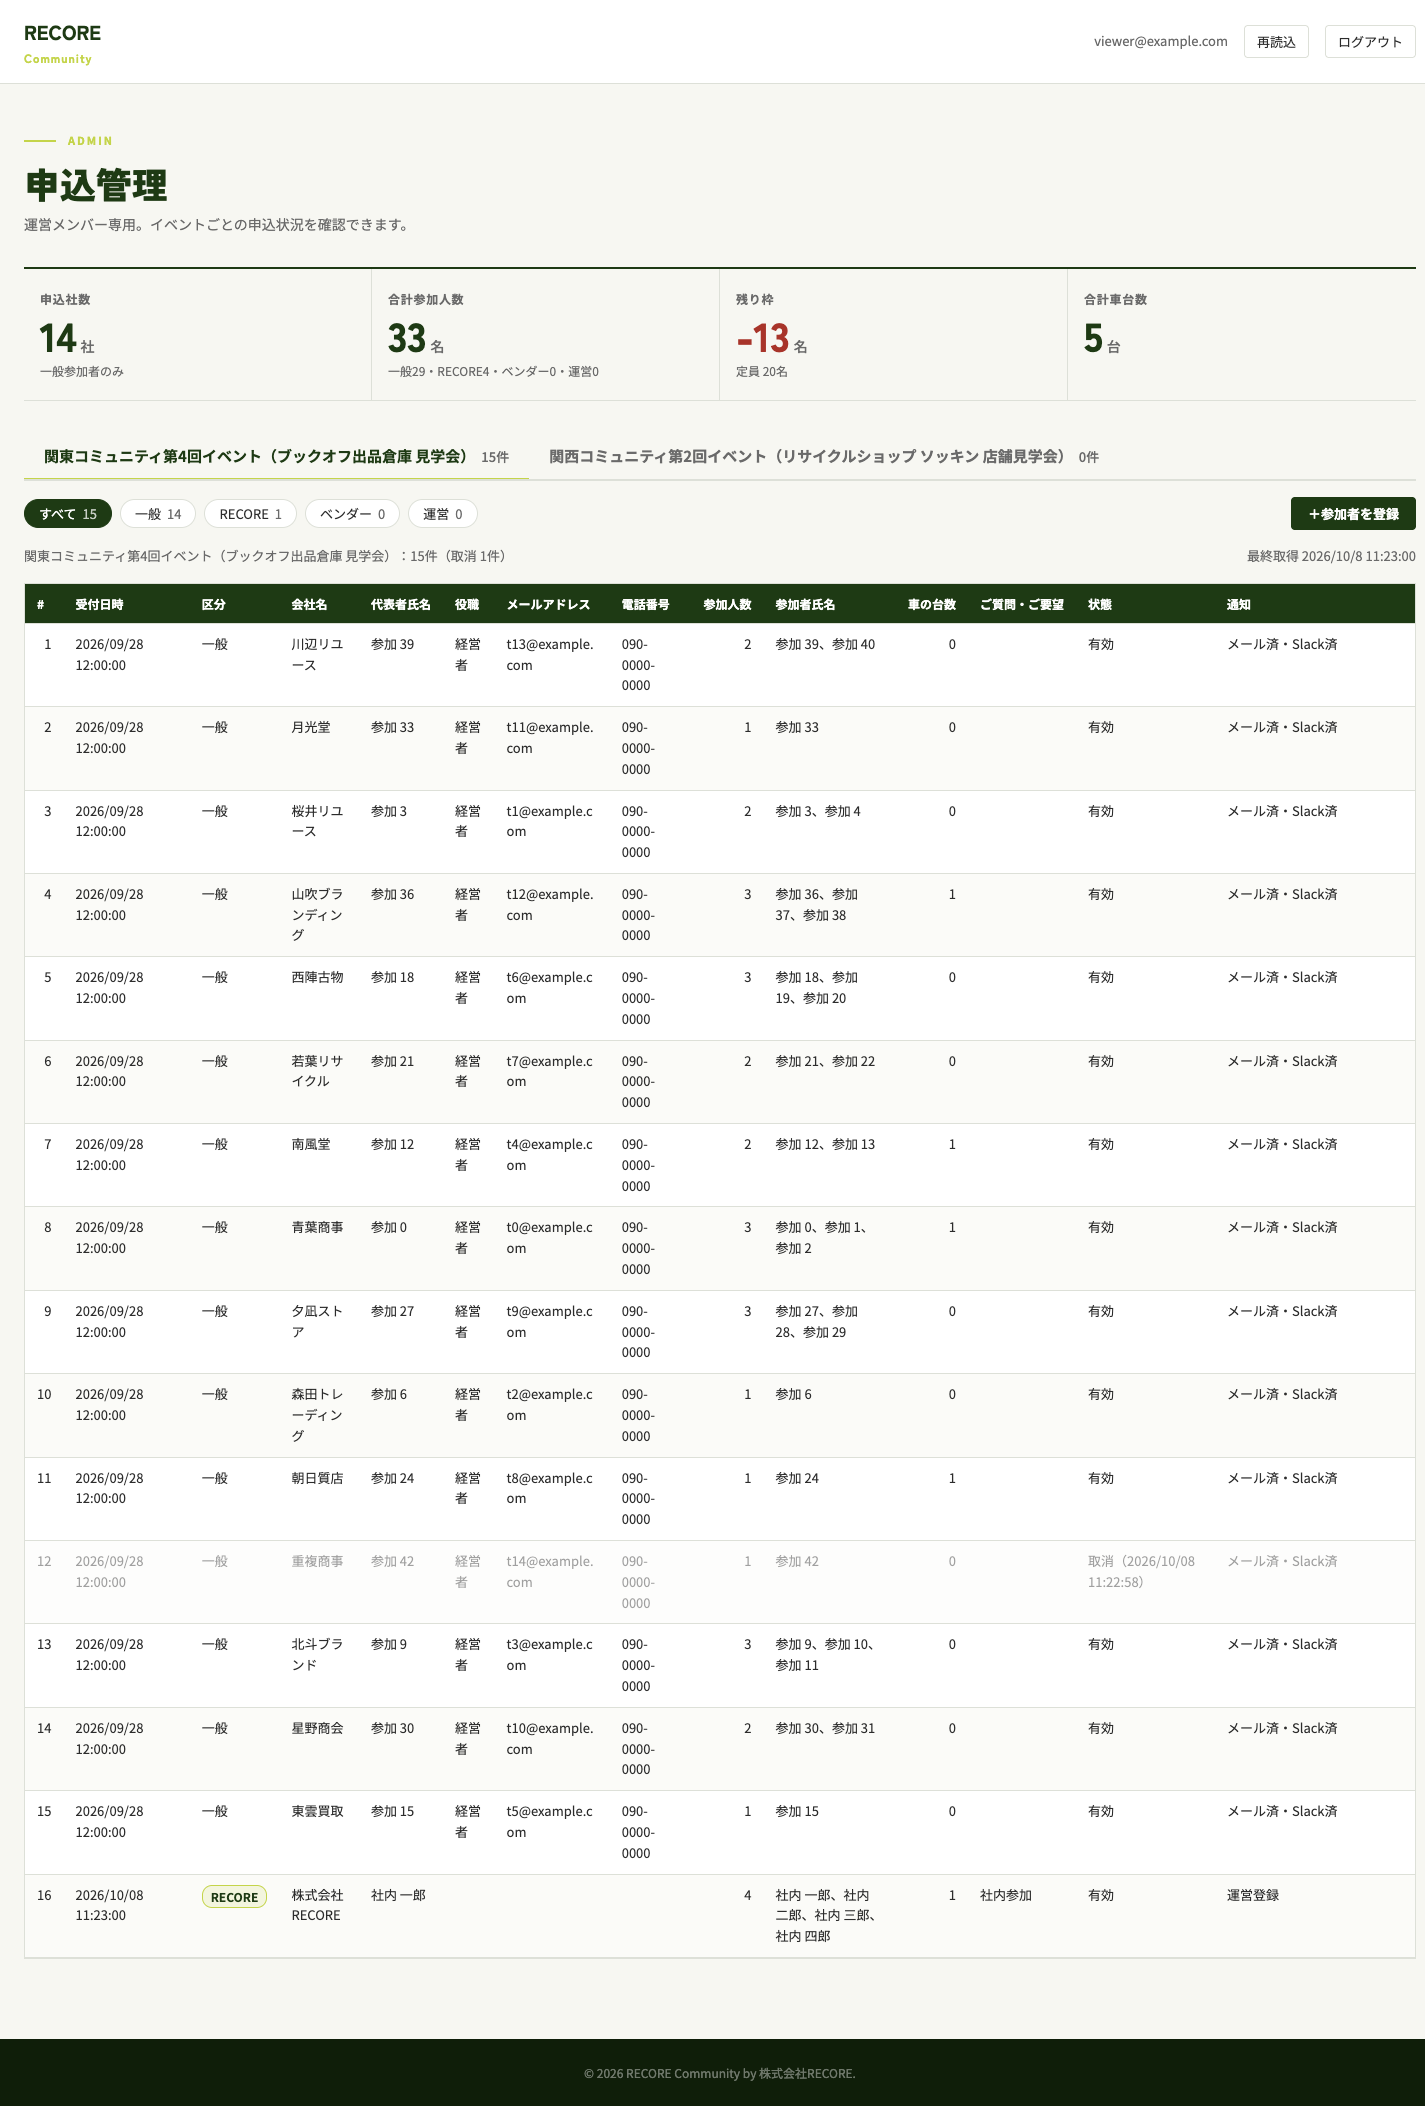
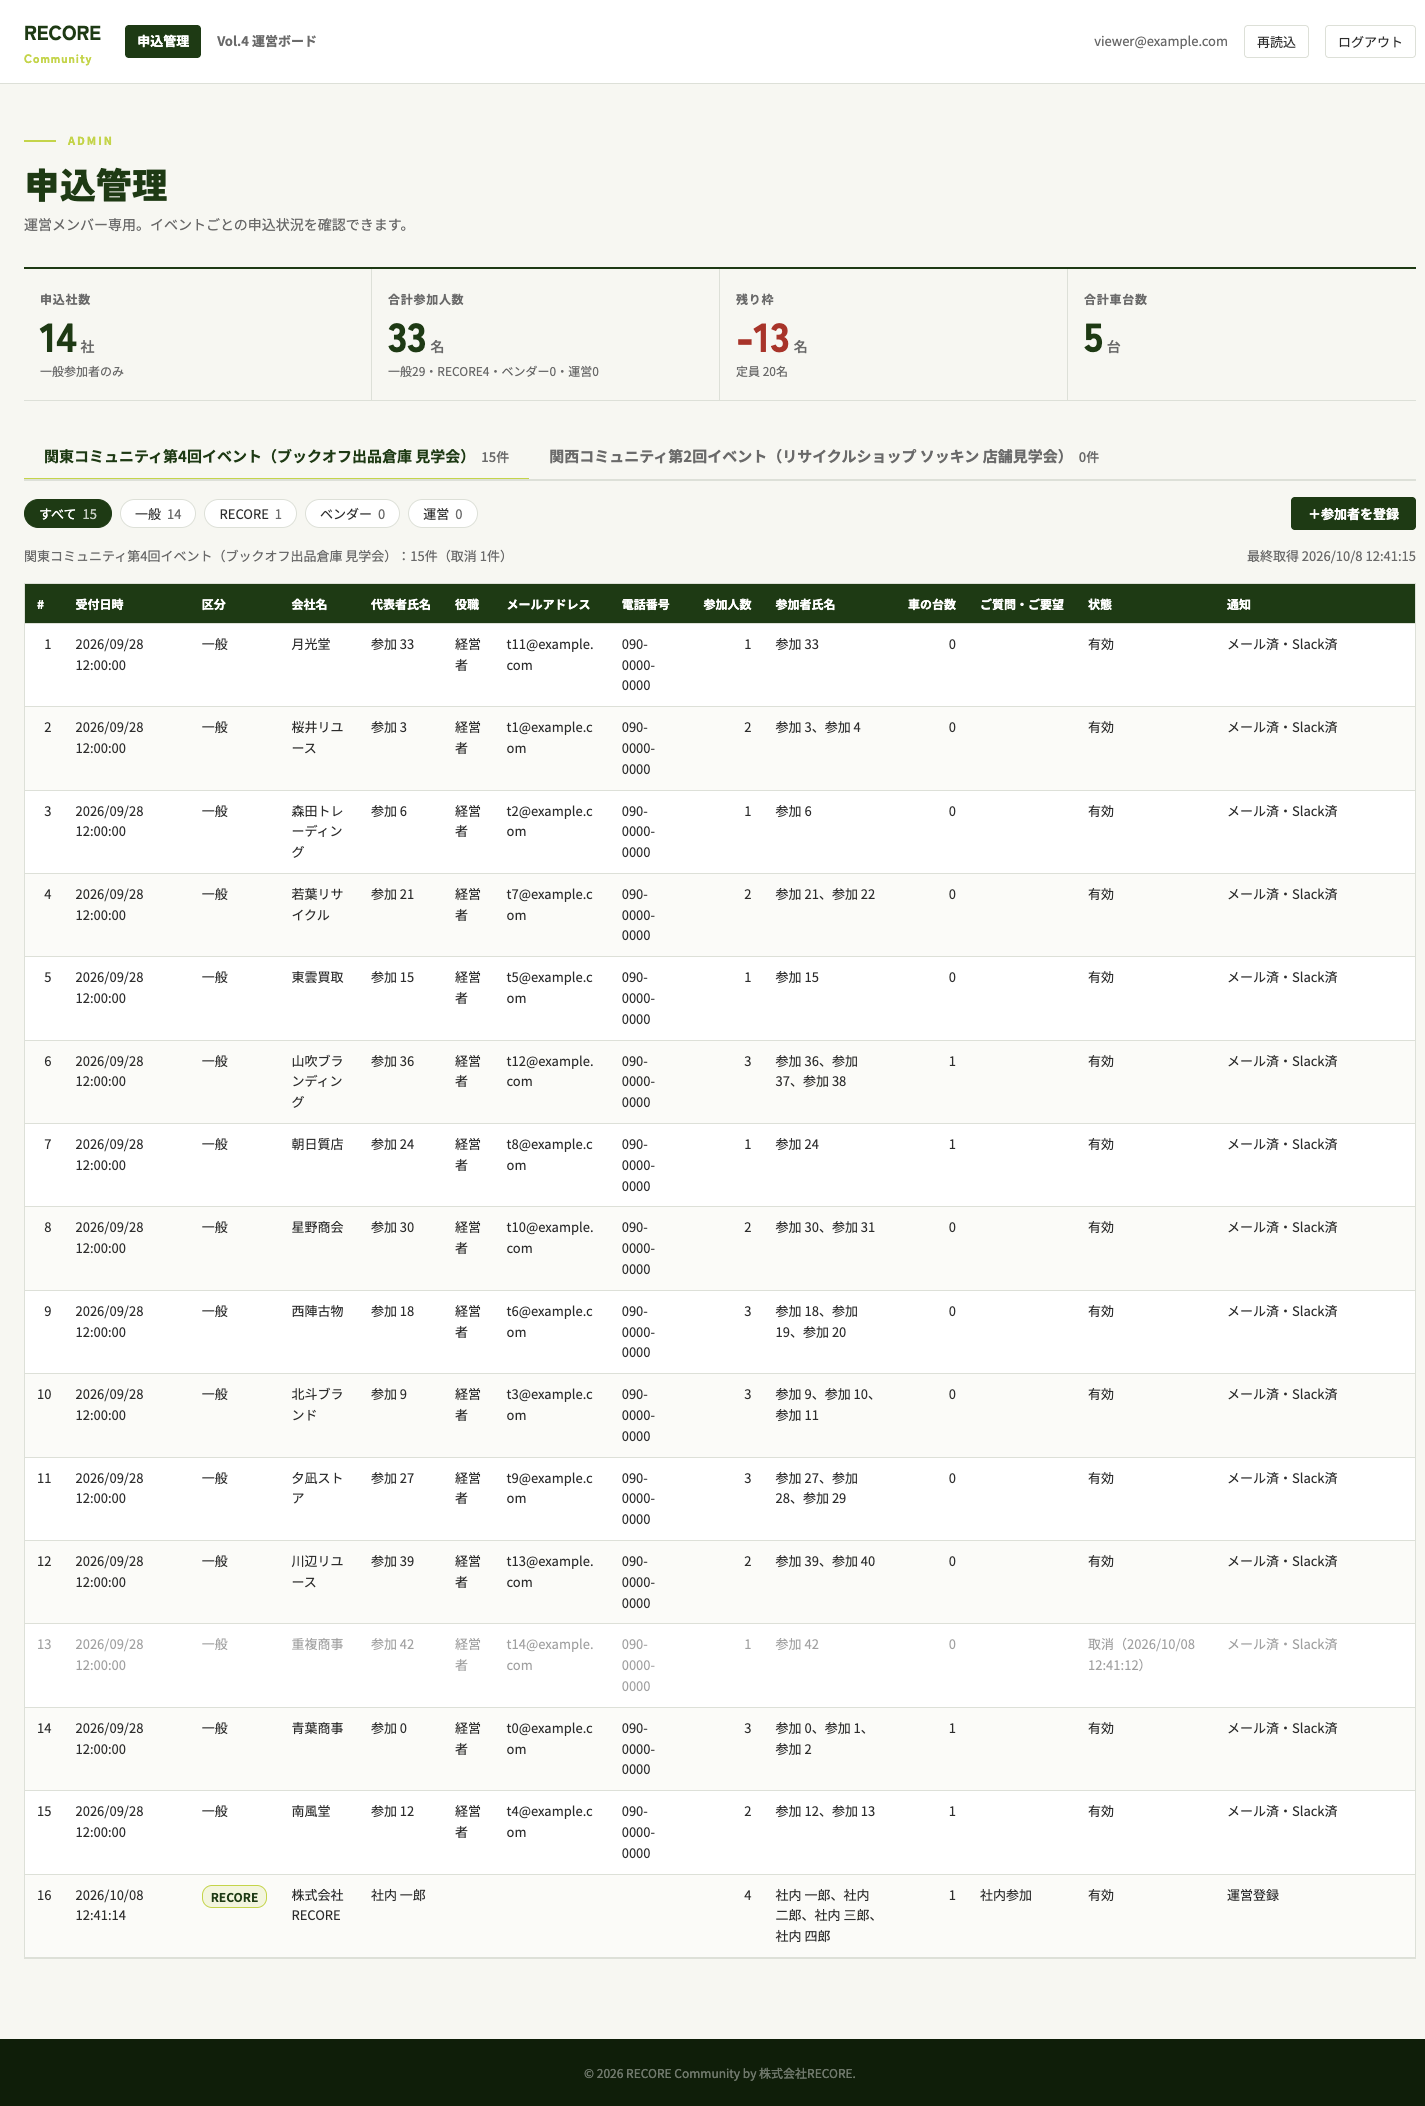
main（PR #8・運営ボード）の取り込み後の再確認を実装記録に追記し、スクリーンショットを更新

diff --git a/docs/designs/2026-10-05-attendee-category/implementation.md b/docs/designs/2026-10-05-attendee-category/implementation.md
@@ -68,6 +68,8 @@
 | U33 | Slack 送信が失敗 | OK | U33：Slack もメールも失敗 → 200・`notified: false`・行は保存。Slack だけ失敗 → 運営宛メール（件名【運営登録】）で届き `notified: true`。画面：「登録しました（運営 Slack への通知は送れませんでした）」と出て行は増える |
 | U34 | 区分で絞り込み | OK | 画面：RECORE で1行・ベンダー0件は「該当する申込はありません。」・一般で取消行を含む15行（件数表示は有効14件）。どの絞り込みでも集計カードは変わらない |
 
+2026-10-08 追記：PR #8 のマージと運営ボード（PR #12・#13）で main が進んだため、PR #9 のブランチ経由で main を取り込んだ。admin.html はスマホ幅の CSS（運営ボードのナビと登録パネル）がぶつかったので両方を残した。`npm test` 61 件（運営ボードの 14 件を含む）と画面 24 項目（運営ボードへの切替リンクを追加）を確かめ直し、すべて通過。
+
 スクリーンショット（架空データ）：`after-admin.png`（登録後の一覧）・`after-register-panel.png`（登録パネル）。スマホ幅（390px）でページが横にはみ出さないことも確認した。
 
 ## デプロイ時の作業・マージ順
